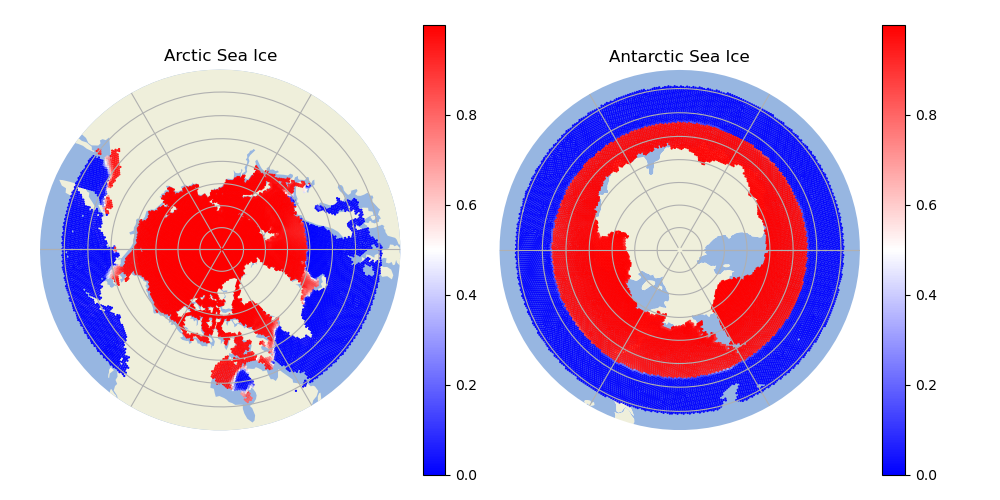
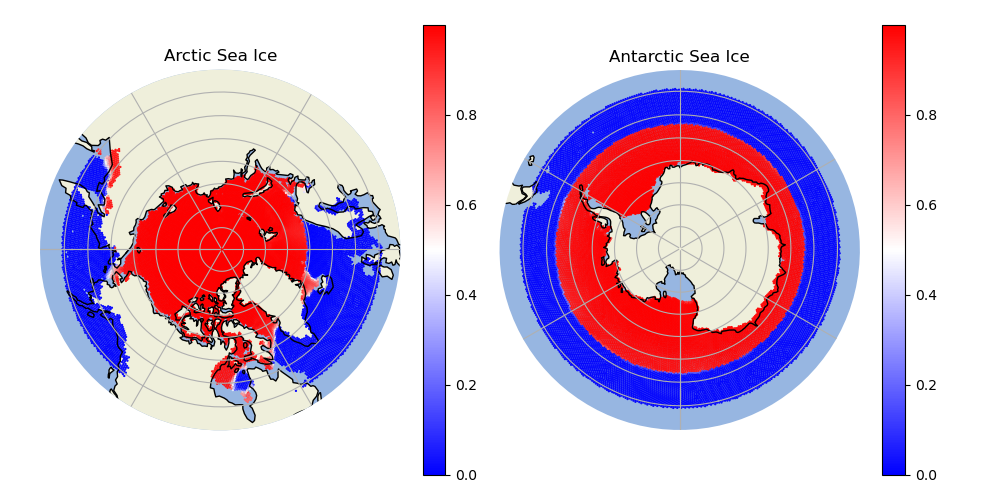
Almost matches. Still some scaling issues.

diff --git a/practice-plotting/e3sm-data-practice-visualization.py b/practice-plotting/e3sm-data-practice-visualization.py
@@ -26,6 +26,7 @@ import cartopy.feature as cfeature
 MAXLONGITUDE = 180
 MINLONGITUDE = -180
 NORTHPOLE = 90
+SOUTHPOLE = -90
 LAT_LIMIT = 50
 
 # Change these for different runs
@@ -37,17 +38,19 @@ varToPlot = 'timeDaily_avg_iceAreaCell' # The variable that you want to plot
 def loadMesh(runDir, meshFileName):
     """ Load the mesh from an .nc file. The mesh must have the same resolution as the output file. """
     print('read: ', runDir, meshFileName)
-    mesh = xarray.open_dataset(runDir + meshFileName)
-    nCells = mesh.sizes['nCells']
+
+    mesh    = xarray.open_dataset(runDir + meshFileName)
+    nCells  = mesh.sizes['nCells']
     latCell = mesh.variables['latCell'] # in radians
     lonCell = mesh.variables['lonCell']
-    xCell = mesh.variables['xCell'] # in meters
-    yCell = mesh.variables['yCell']
+    xCell   = mesh.variables['xCell'] # in meters
+    yCell   = mesh.variables['yCell']
     return nCells, latCell, lonCell, xCell, yCell
 
 def loadData(runDir, outputFileName):
     """ Load the data from an .nc output file. Returns a 1D array of the variable you want to plot. """
     print('read: ', runDir, outputFileName)
+    
     output = xarray.open_dataset(runDir + outputFileName)
     var = output.variables[varToPlot]
     var1D = var[0,:] # reduce the variable to 1D so we can use these indices
@@ -58,10 +61,12 @@ def mapHemisphere(latCell, xCell, yCell, var1D, hemisphere, title, hemisphereMap
     You do not need to include the minus sign if mapping southern hemisphere. """
     if hemisphere == "n":
         indices = np.where(latCell > math.radians(LAT_LIMIT))
+        sc = hemisphereMap.scatter(xCell[indices], yCell[indices], c=var1D[indices], cmap='bwr', s=0.4)
     elif hemisphere == "s":
         indices = np.where(latCell < math.radians(-LAT_LIMIT))
-
-    sc = hemisphereMap.scatter(xCell[indices], yCell[indices], c=var1D[indices], cmap='bwr', s=0.4)
+        sc = hemisphereMap.scatter(yCell[indices], xCell[indices], c=var1D[indices], cmap='bwr', s=0.4)
+    else:
+        return
     
     hemisphereMap.set_title(title)
     hemisphereMap.axis('off')
@@ -86,37 +91,40 @@ def addMapFeatures(my_map, ocean, land, grid):
     if (grid == 1):
         my_map.gridlines()
 
+    my_map.coastlines()
+
 def generateNorthandSouthPoleMaps(ocean, land, grid):
     """ Generate 2 maps; one of the north pole and one of the south pole. """
     fig = plt.figure(figsize=[10, 5])
 
     # Define projections for each map
     map_projection_north = ccrs.NorthPolarStereo(central_longitude=270, globe=None)
-    map_projection_south = ccrs.SouthPolarStereo(central_longitude=90, globe=None)
+    map_projection_south = ccrs.SouthPolarStereo(central_longitude=0, globe=None)
 
     # Create the two maps as subplots of the figure.
-    leftMap  = fig.add_subplot(1, 2, 1, projection=map_projection_north)
-    rightMap = fig.add_subplot(1, 2, 2, projection=map_projection_south)
+    northMap = fig.add_subplot(1, 2, 1, projection=map_projection_north)
+    southMap = fig.add_subplot(1, 2, 2, projection=map_projection_south)
 
     # Adjust the margins around the plots (as a fraction of the width or height)
-    fig.subplots_adjust(bottom=0.05, top=0.95,
-                        left=0.04, right=0.95, wspace=0.02)
+    fig.subplots_adjust(bottom=0.05, top=0.95, left=0.04, right=0.95, wspace=0.02)
 
     # Set your viewpoint (the extent)
-    leftMap.set_extent([MINLONGITUDE, MAXLONGITUDE, LAT_LIMIT, NORTHPOLE], ccrs.PlateCarree())
+    northMap.set_extent([MINLONGITUDE, MAXLONGITUDE,  LAT_LIMIT, NORTHPOLE], ccrs.PlateCarree())
+    southMap.set_extent([MINLONGITUDE, MAXLONGITUDE, -LAT_LIMIT, SOUTHPOLE], ccrs.PlateCarree())
 
-    addMapFeatures(leftMap, ocean, land, grid)
-    addMapFeatures(rightMap, ocean, land, grid)
+    # Add map features, like land and ocean
+    addMapFeatures(northMap, ocean, land, grid)
+    addMapFeatures(southMap, ocean, land, grid)
 
     # Crop the map to be round instead of rectangular.
-    rightMap.set_boundary(makeCircle(), transform=rightMap.transAxes)
-    leftMap.set_boundary(makeCircle(), transform=leftMap.transAxes)
+    northMap.set_boundary(makeCircle(), transform=northMap.transAxes)
+    southMap.set_boundary(makeCircle(), transform=southMap.transAxes)
 
     # Load the mesh, data, and map the 2 hemispheres.
     nCells, latCell, lonCell, xCell, yCell = loadMesh(runDir, meshFileName)
     var1D = loadData(runDir, outputFileName)
-    mapHemisphere(latCell, xCell, yCell, var1D, "n", "Arctic Sea Ice", leftMap)      # Map northern hemisphere
-    mapHemisphere(latCell, xCell, yCell, var1D, "s", "Antarctic Sea Ice", rightMap) # Map southern hemisphere
+    mapHemisphere(latCell, xCell, yCell, var1D, "n", "Arctic Sea Ice", northMap)     # Map northern hemisphere
+    mapHemisphere(latCell, xCell, yCell, var1D, "s", "Antarctic Sea Ice", southMap) # Map southern hemisphere
 
     plt.savefig('seaice_Output.png')
 
